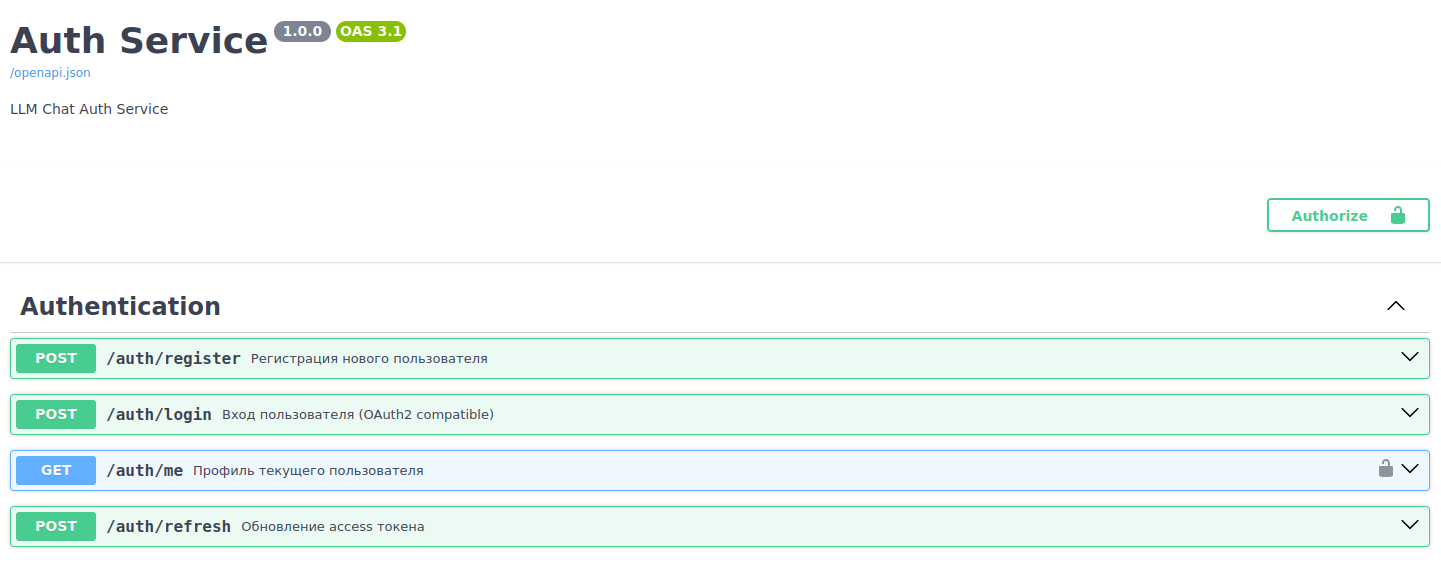
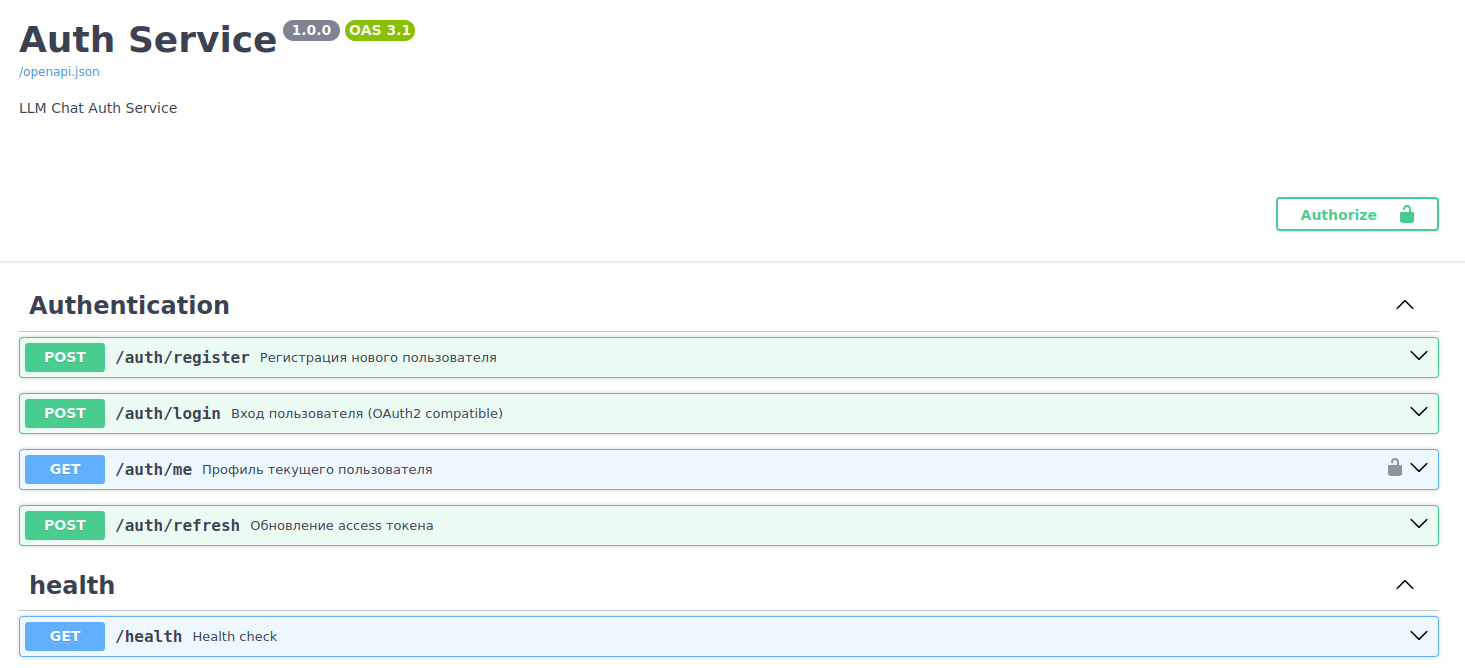
добавлена документация по health check

Changed region(s): [[0.0, 0.4474, 0.9993, 0.9842], [0.0, 0.0298, 0.2811, 0.2088], [0.8744, 0.2684, 0.9993, 0.4175]]

diff --git a/llm-chat-service/auth_service/app/api/router_health.py b/llm-chat-service/auth_service/app/api/router_health.py
@@ -3,11 +3,11 @@ from fastapi import APIRouter
 from auth_service.app.core.config import settings
 from auth_service.app.schemas.health_check import HealthCheck
 
-health_router = APIRouter(prefix="/health", tags=["health"])
+health_router = APIRouter(tags=["health"])
 
 
 @health_router.get(
-    "/",
+    "/health",
     summary="Health check",
     description="Проверка работоспособности сервера",
     response_model=HealthCheck

diff --git a/llm-chat-service/auth_service/app/api/__init__.py b/llm-chat-service/auth_service/app/api/__init__.py
@@ -2,7 +2,7 @@ from .router_auth import router as auth_router
 from .router_health import health_router
 
 
-routers = [auth_router]
+routers = [auth_router, health_router]
 
 
 __all__ = [

diff --git a/llm-chat-service/auth_service/docs/health/README.md b/llm-chat-service/auth_service/docs/health/README.md
@@ -1,0 +1,25 @@
+# Health check
+
+Эндпоинт для мониторинга состояния сервиса и проверки его доступности.
+
+## Request
+
+**URL**: `GET /health`
+
+![request.png](request.png)
+
+**CURL**
+
+```shell
+curl -X 'GET' \
+  'http://127.0.0.1:8000/health' \
+  -H 'accept: application/json'
+```
+
+## Response
+
+**200 - OK**
+
+Успешный ответ.
+
+![200_OK.png](200_OK.png)

diff --git a/llm-chat-service/auth_service/README.md b/llm-chat-service/auth_service/README.md
@@ -20,3 +20,4 @@ Auth Service предоставляет веб-API и Swagger по адресу 
 5. [Логирование](docs/login/README.md);
 6. [Получение данных текущего пользователя](docs/me/README.md);
 7. [Обновление access токена](docs/refresh_token/README.md);
+8. [Health check](docs/health/README.md).
